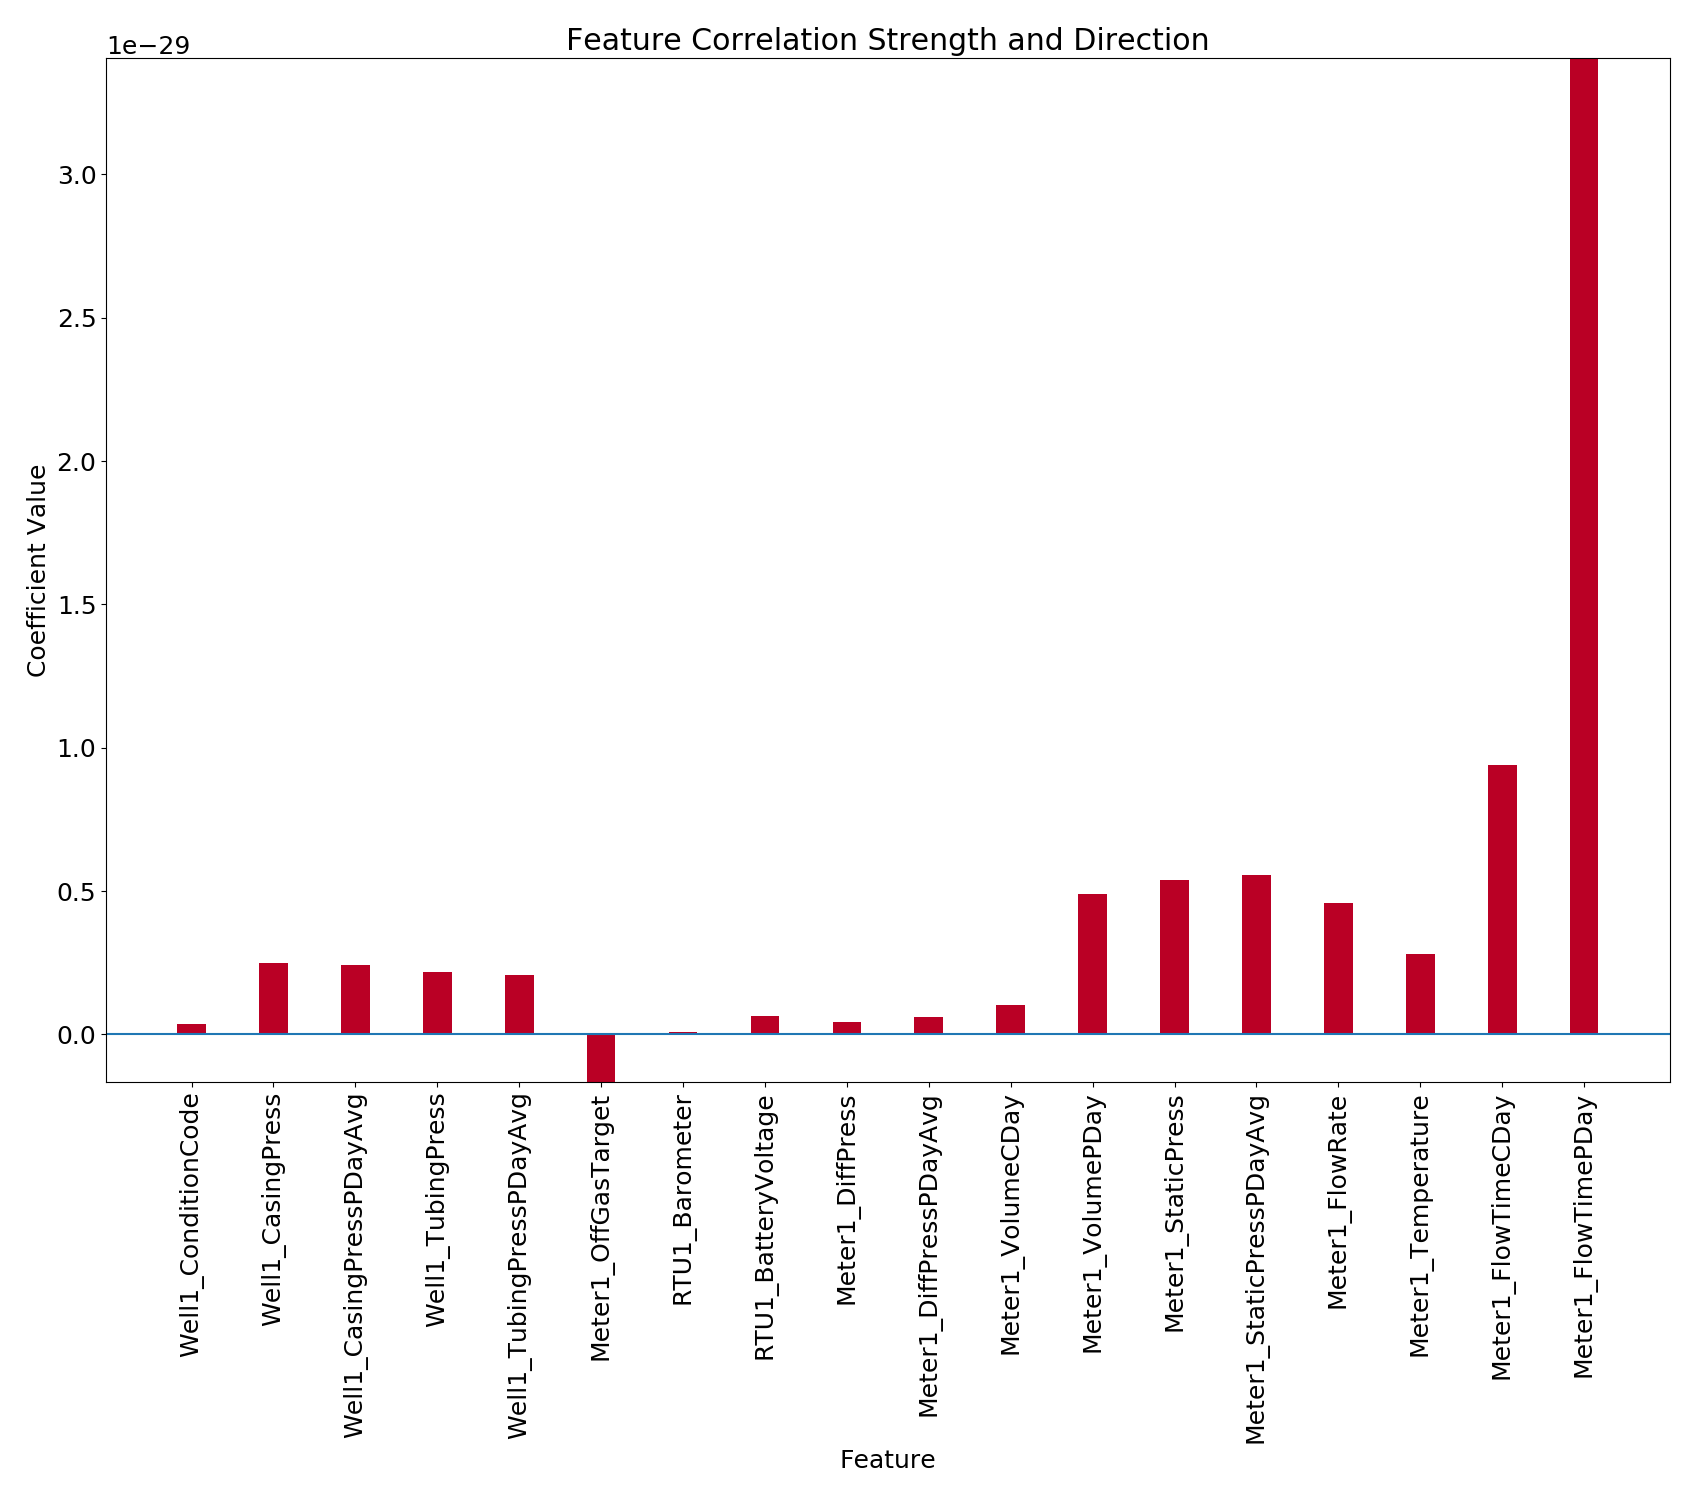
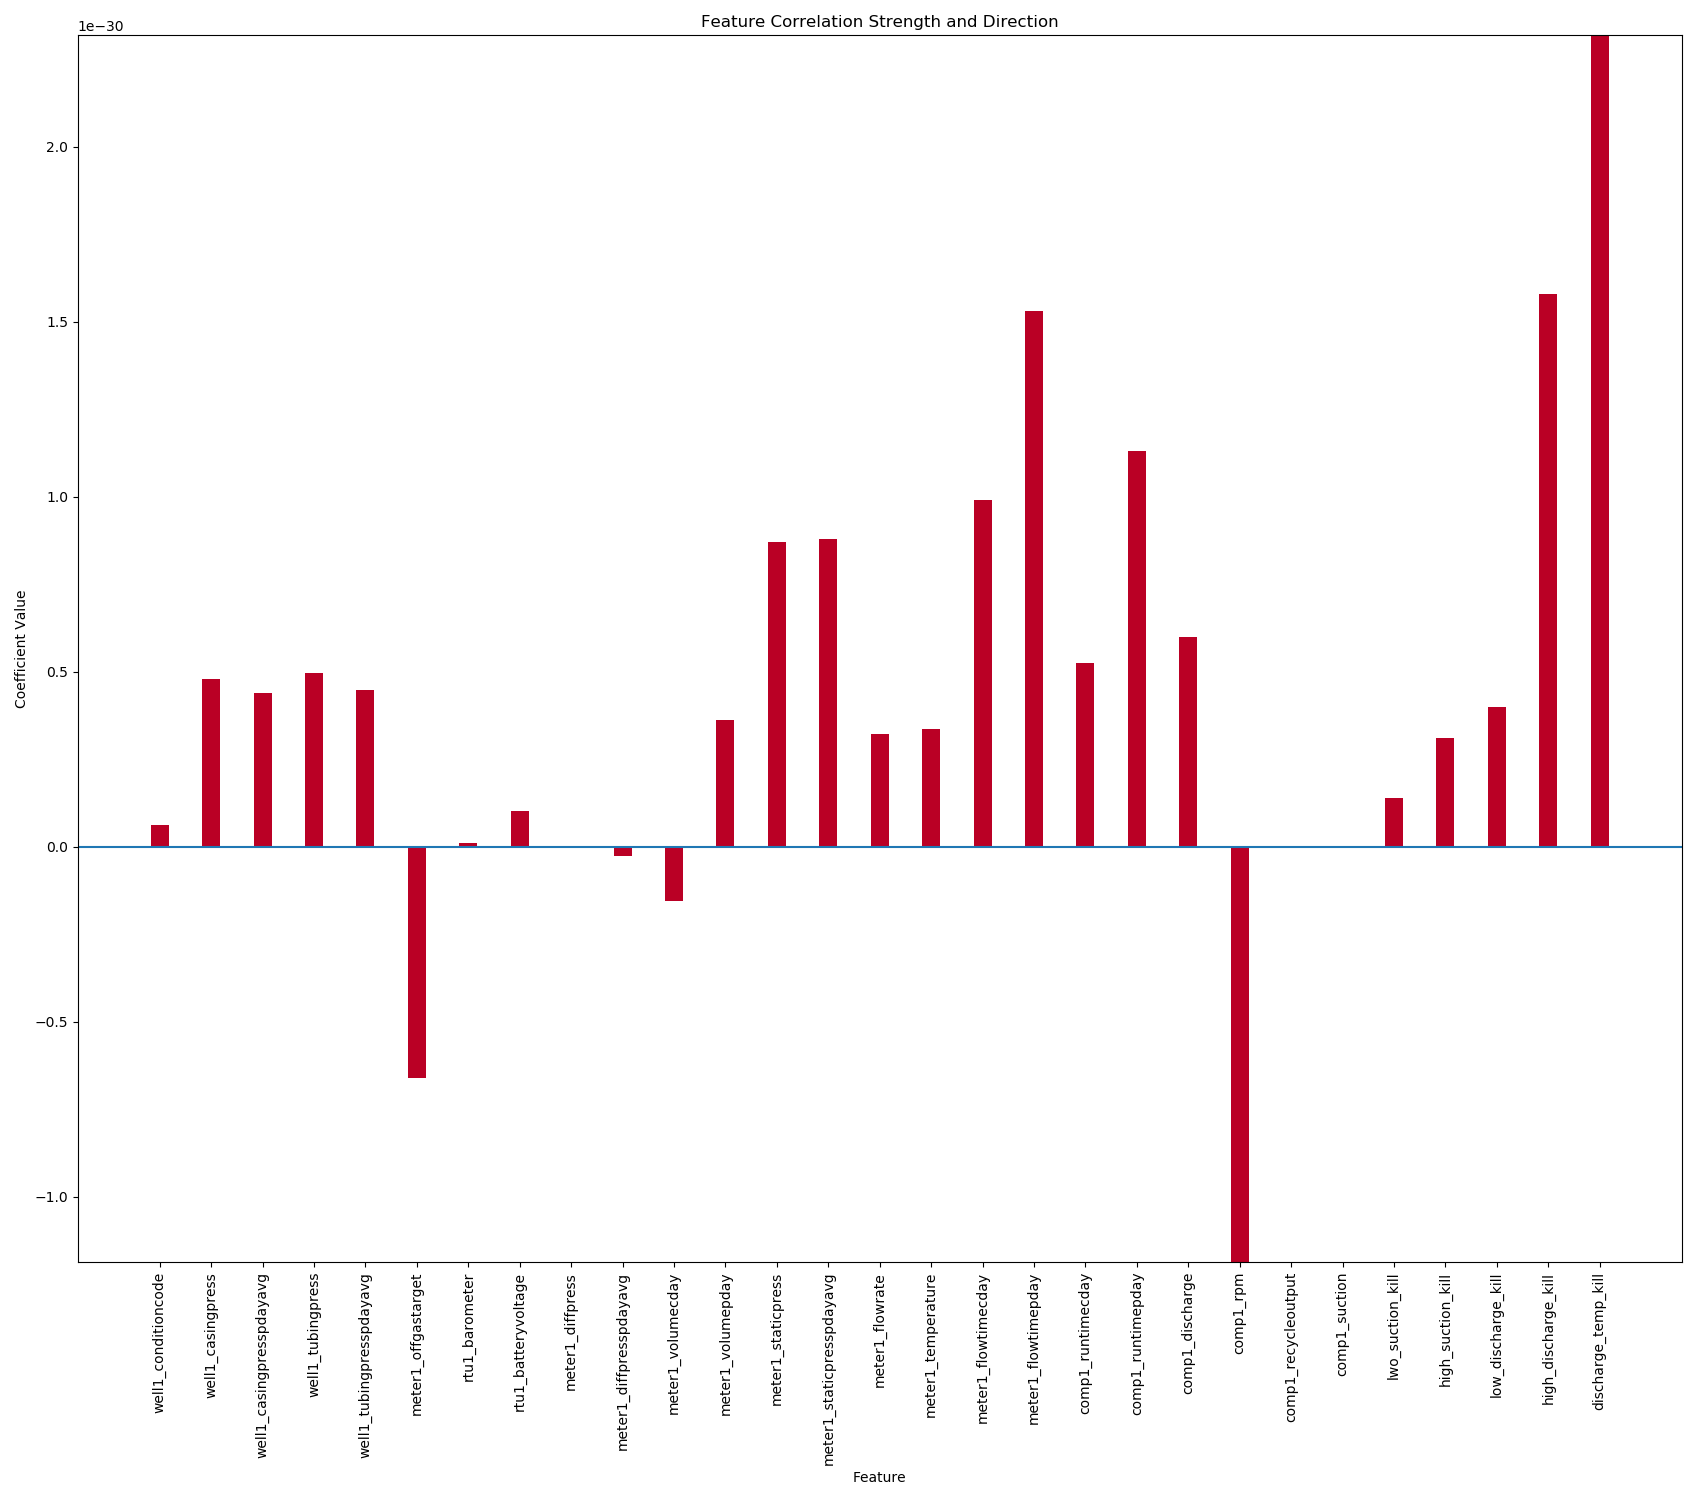
increased number of features

diff --git a/compressor_failure.py b/compressor_failure.py
@@ -239,7 +239,7 @@ def compressor_link(df):
 	comps['comp_model'] = comps['Compressor Manufacturer'].str.lower() + ' ' + comps['Compressor Model'].str.lower()
 	comps['WellName'] = comps['Well Name'].str.lower()
 	comps['WellName'] = comps['WellName'].str.replace('/', '_')
-	comps_lim = comps[['WellName', 'Lwo Suction Kill', 'High Suction kill', \
+	comps_lim = comps[['WellName', 'Lwo Suction Kill', 'High suction kill', \
 					   'Low Discharge Kill', 'High Discharge Kill', \
 					   'Discharge temp kill', 'comp_model']].dropna(how='all')
 
@@ -363,16 +363,16 @@ def logistic(df):
 	# compressor will fail within a week of the current date
 
 	# Train/test split based on a 70/30 split
-	test_date = df.iloc[int(df.shape[0] * .7),:]['DateTime']
+	test_date = df.iloc[int(df.shape[0] * .7),:]['datetime']
 
-	train = df[df['DateTime'] < test_date]
-	test = df[df['DateTime'] >= test_date]
+	train = df[df['datetime'] < test_date].dropna(how='any', axis=1)
+	test = df[df['datetime'] >= test_date].dropna(how='any', axis=1)
 
 	# Remove codependent/non-numeric variables
-	train = train.drop(['DateTime', 'Asset', 'failure', 'WellFlac', 'WellName', \
-						'comp_model', 'last_failure', 'Meter', 'Unnamed: 0'], axis=1)
-	test = test.drop(['DateTime', 'Asset', 'failure','WellFlac', 'WellName', \
-					  'comp_model', 'last_failure', 'Meter', 'Unnamed: 0'], axis=1)
+	train = train.drop(['datetime', 'asset', 'failure', 'wellflac', 'wellname', \
+						'comp_model', 'Unnamed: 0'], axis=1)
+	test = test.drop(['datetime', 'asset', 'failure', 'wellflac', 'wellname', \
+					  'comp_model', 'Unnamed: 0'], axis=1)
 
 	y_train = train.pop('fail_in_week')
 	y_test = test.pop('fail_in_week')
@@ -380,7 +380,7 @@ def logistic(df):
 	sm = SMOTE(random_state=11)
 	x_train, y_train = sm.fit_sample(train, y_train)
 
-	lr = LogisticRegression(class_weight={0:1, 1:2}, random_state=45)
+	lr = LogisticRegression(class_weight={0:1, 1:1.333}, random_state=45)
 	lr.fit(x_train, y_train)
 
 	accuracy = lr.score(test, y_test)
@@ -389,7 +389,7 @@ def logistic(df):
 	print('Precision Score:\n{}'.format(precision_score(y_test, lr.predict(test))))
 	print('Recall Score:\n{}'.format(recall_score(y_test, lr.predict(test))))
 
-	coeff_plot(train.columns, lr)
+	coeff_plot(list(train.columns), lr)
 
 	return lr
 
@@ -402,16 +402,18 @@ def coeff_plot(feat, log_model):
 	ind = np.arange(len(feat) - 1)
 	width = 0.35
 
-	p1 = ax.bar(ind, log_model.coef_[0][:-1], width, color='#ba0025')
+	coeffs = list(log_model.coef_[0])
+	del coeffs[feat.index('days_since_fail')]
+	del feat[feat.index('days_since_fail')]
+
+	p1 = ax.bar(ind, coeffs, width, color='#ba0025')
 	ax.axhline()
 	ax.set_ylabel('Coefficient Value')
 	ax.set_xlabel('Feature')
-	# matplotlib.rcParams.update({'font.size': 18})
-	plt.xticks(ind, feat[:-1], rotation='vertical')
+	plt.xticks(ind, feat, rotation='vertical')
 
 	plt.title('Feature Correlation Strength and Direction')
 	plt.tight_layout()
-	# plt.legend(p1[0], 'Percent Failure', loc=2)
 
 	plt.savefig('images/lr_coef.png')
 
@@ -429,9 +431,9 @@ if __name__ == '__main__':
 	# 	accs.append(accuracy)
 	# print('Average Accuracy: {}'.format(np.mean(accs)))
 
-	df = rtr_fetch(70317101)
-	df.to_csv('data/rtr_data_3.csv')
-	# df = pd.read_csv('data/rtr_data.csv')
+	# df = rtr_fetch(70317101)
+	# df.to_csv('data/rtr_data_3.csv')
+	df = pd.read_csv('data/rtr_data_3.csv')
 	# rf = joblib.load('random_forest_model.pkl')
 	# df, acc = time_series_model(df, rf)
 	lr_model = logistic(df)
